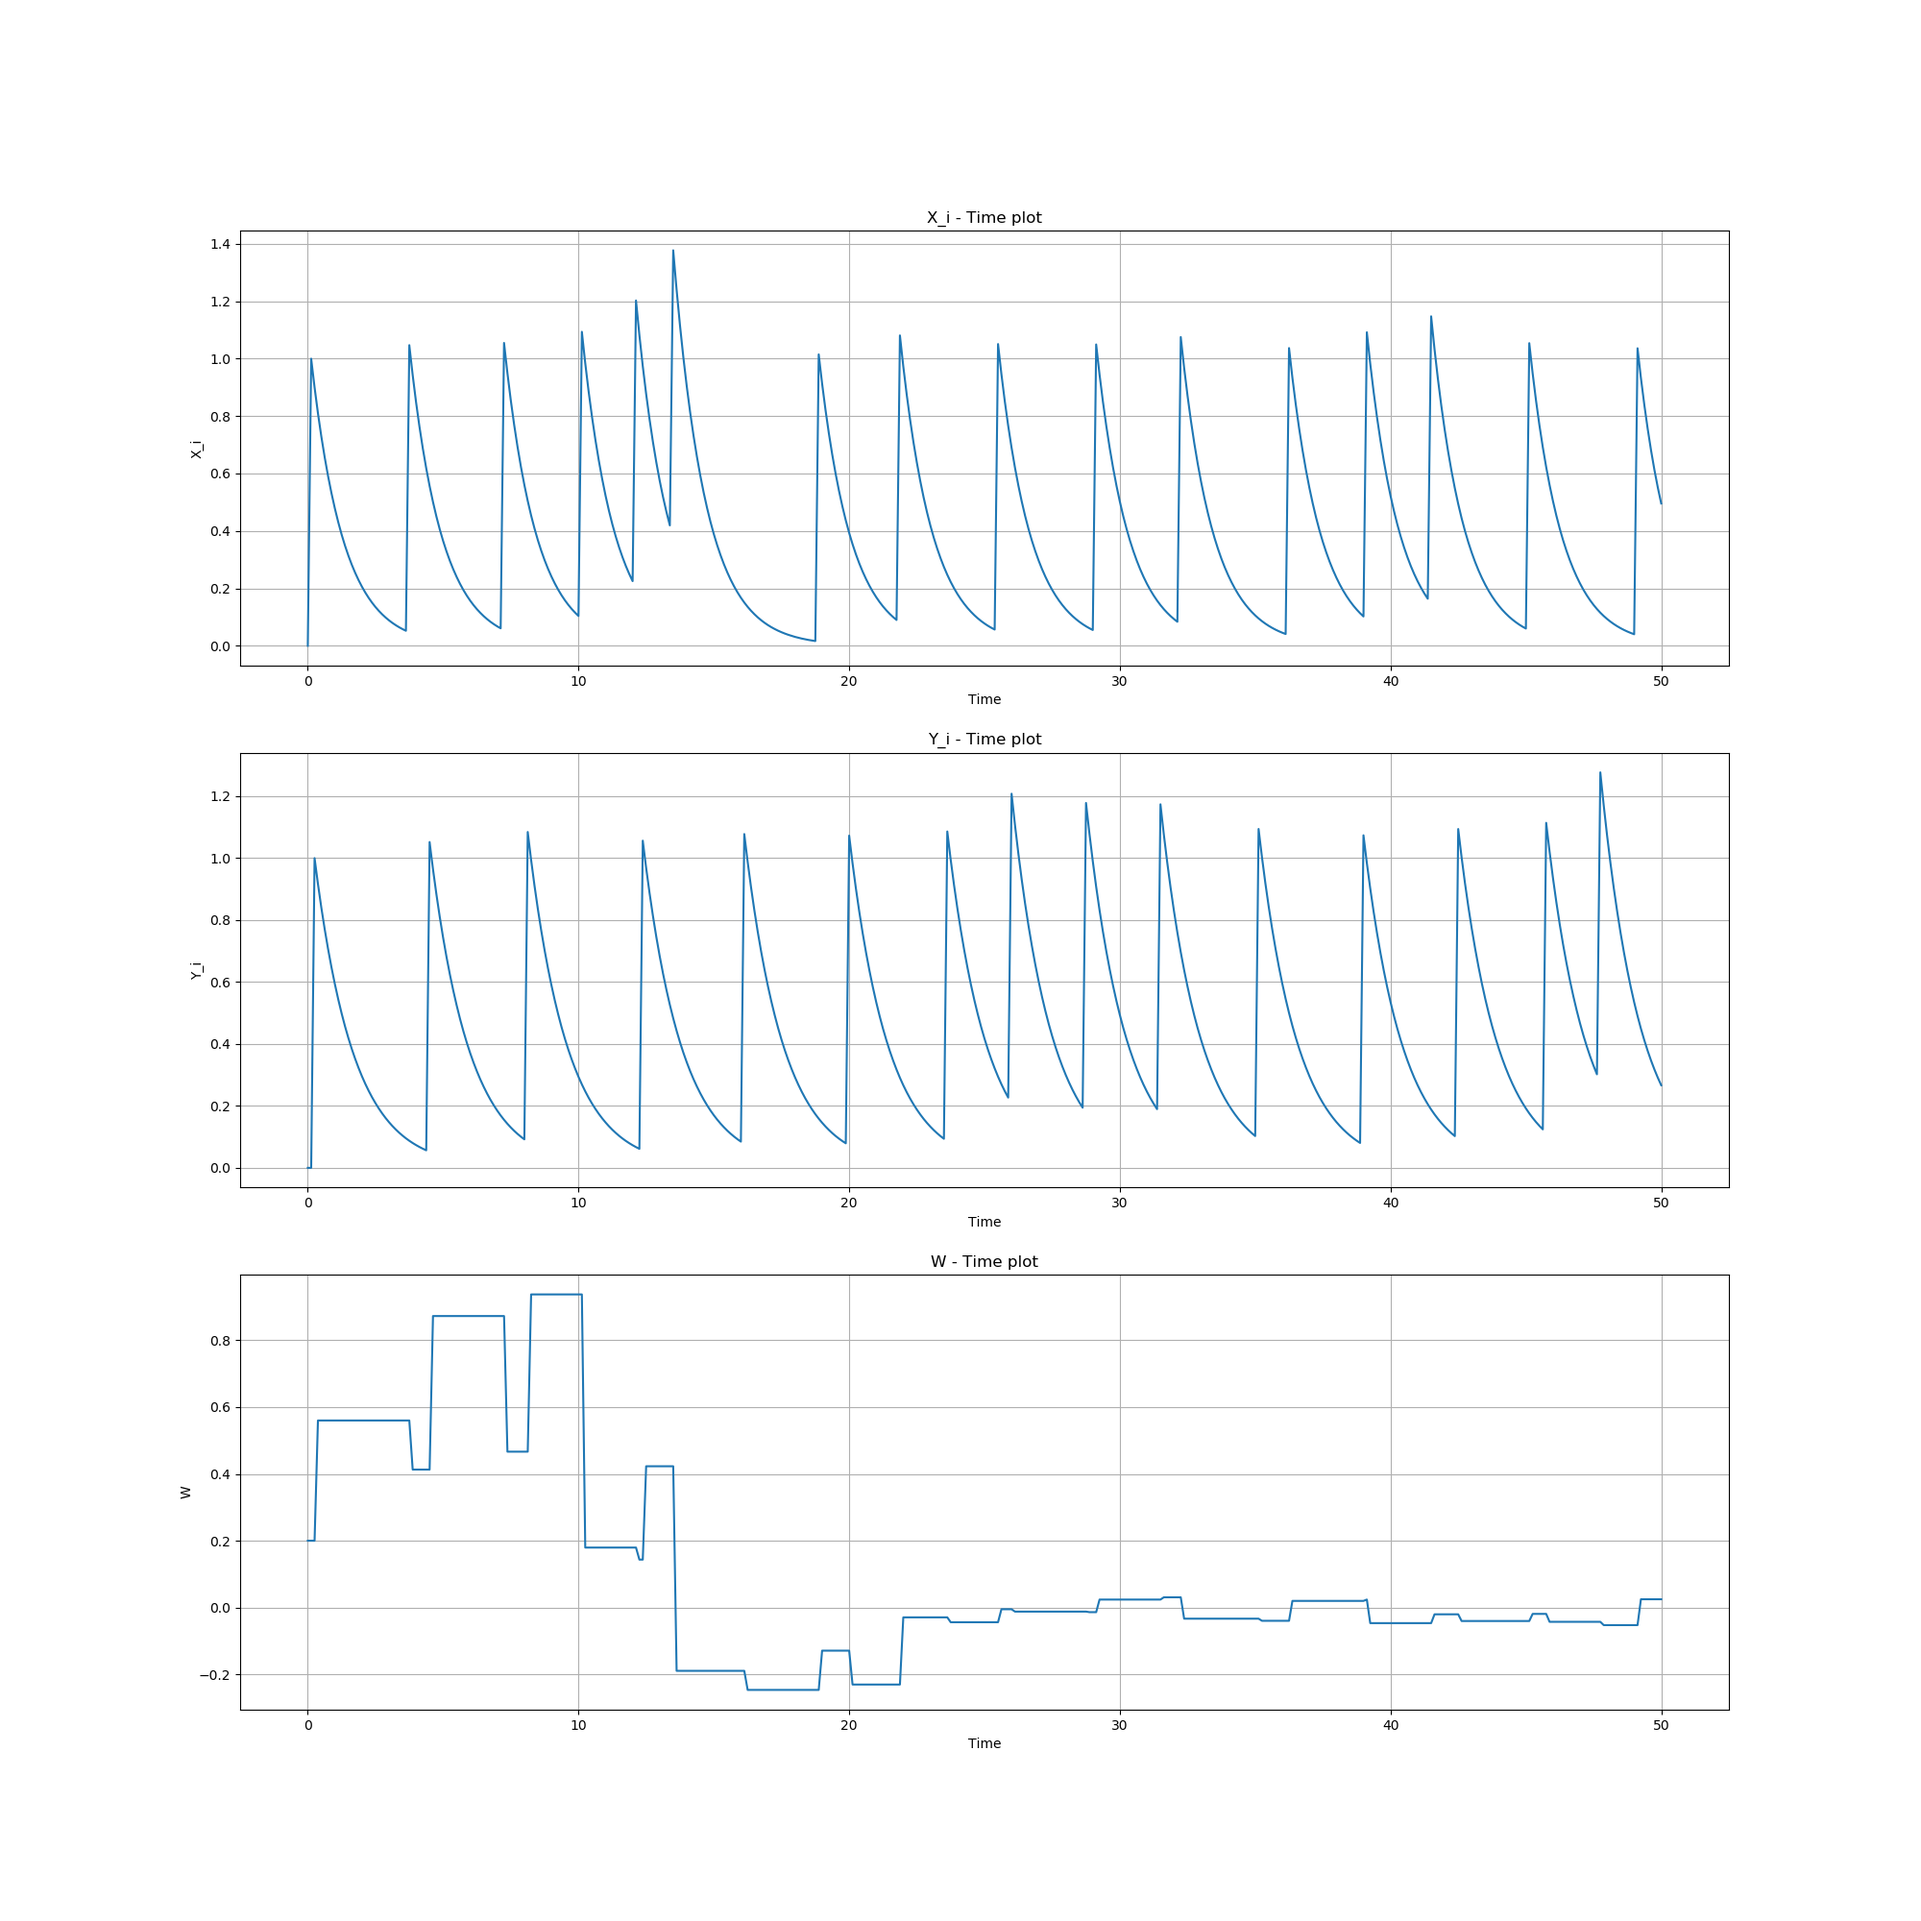
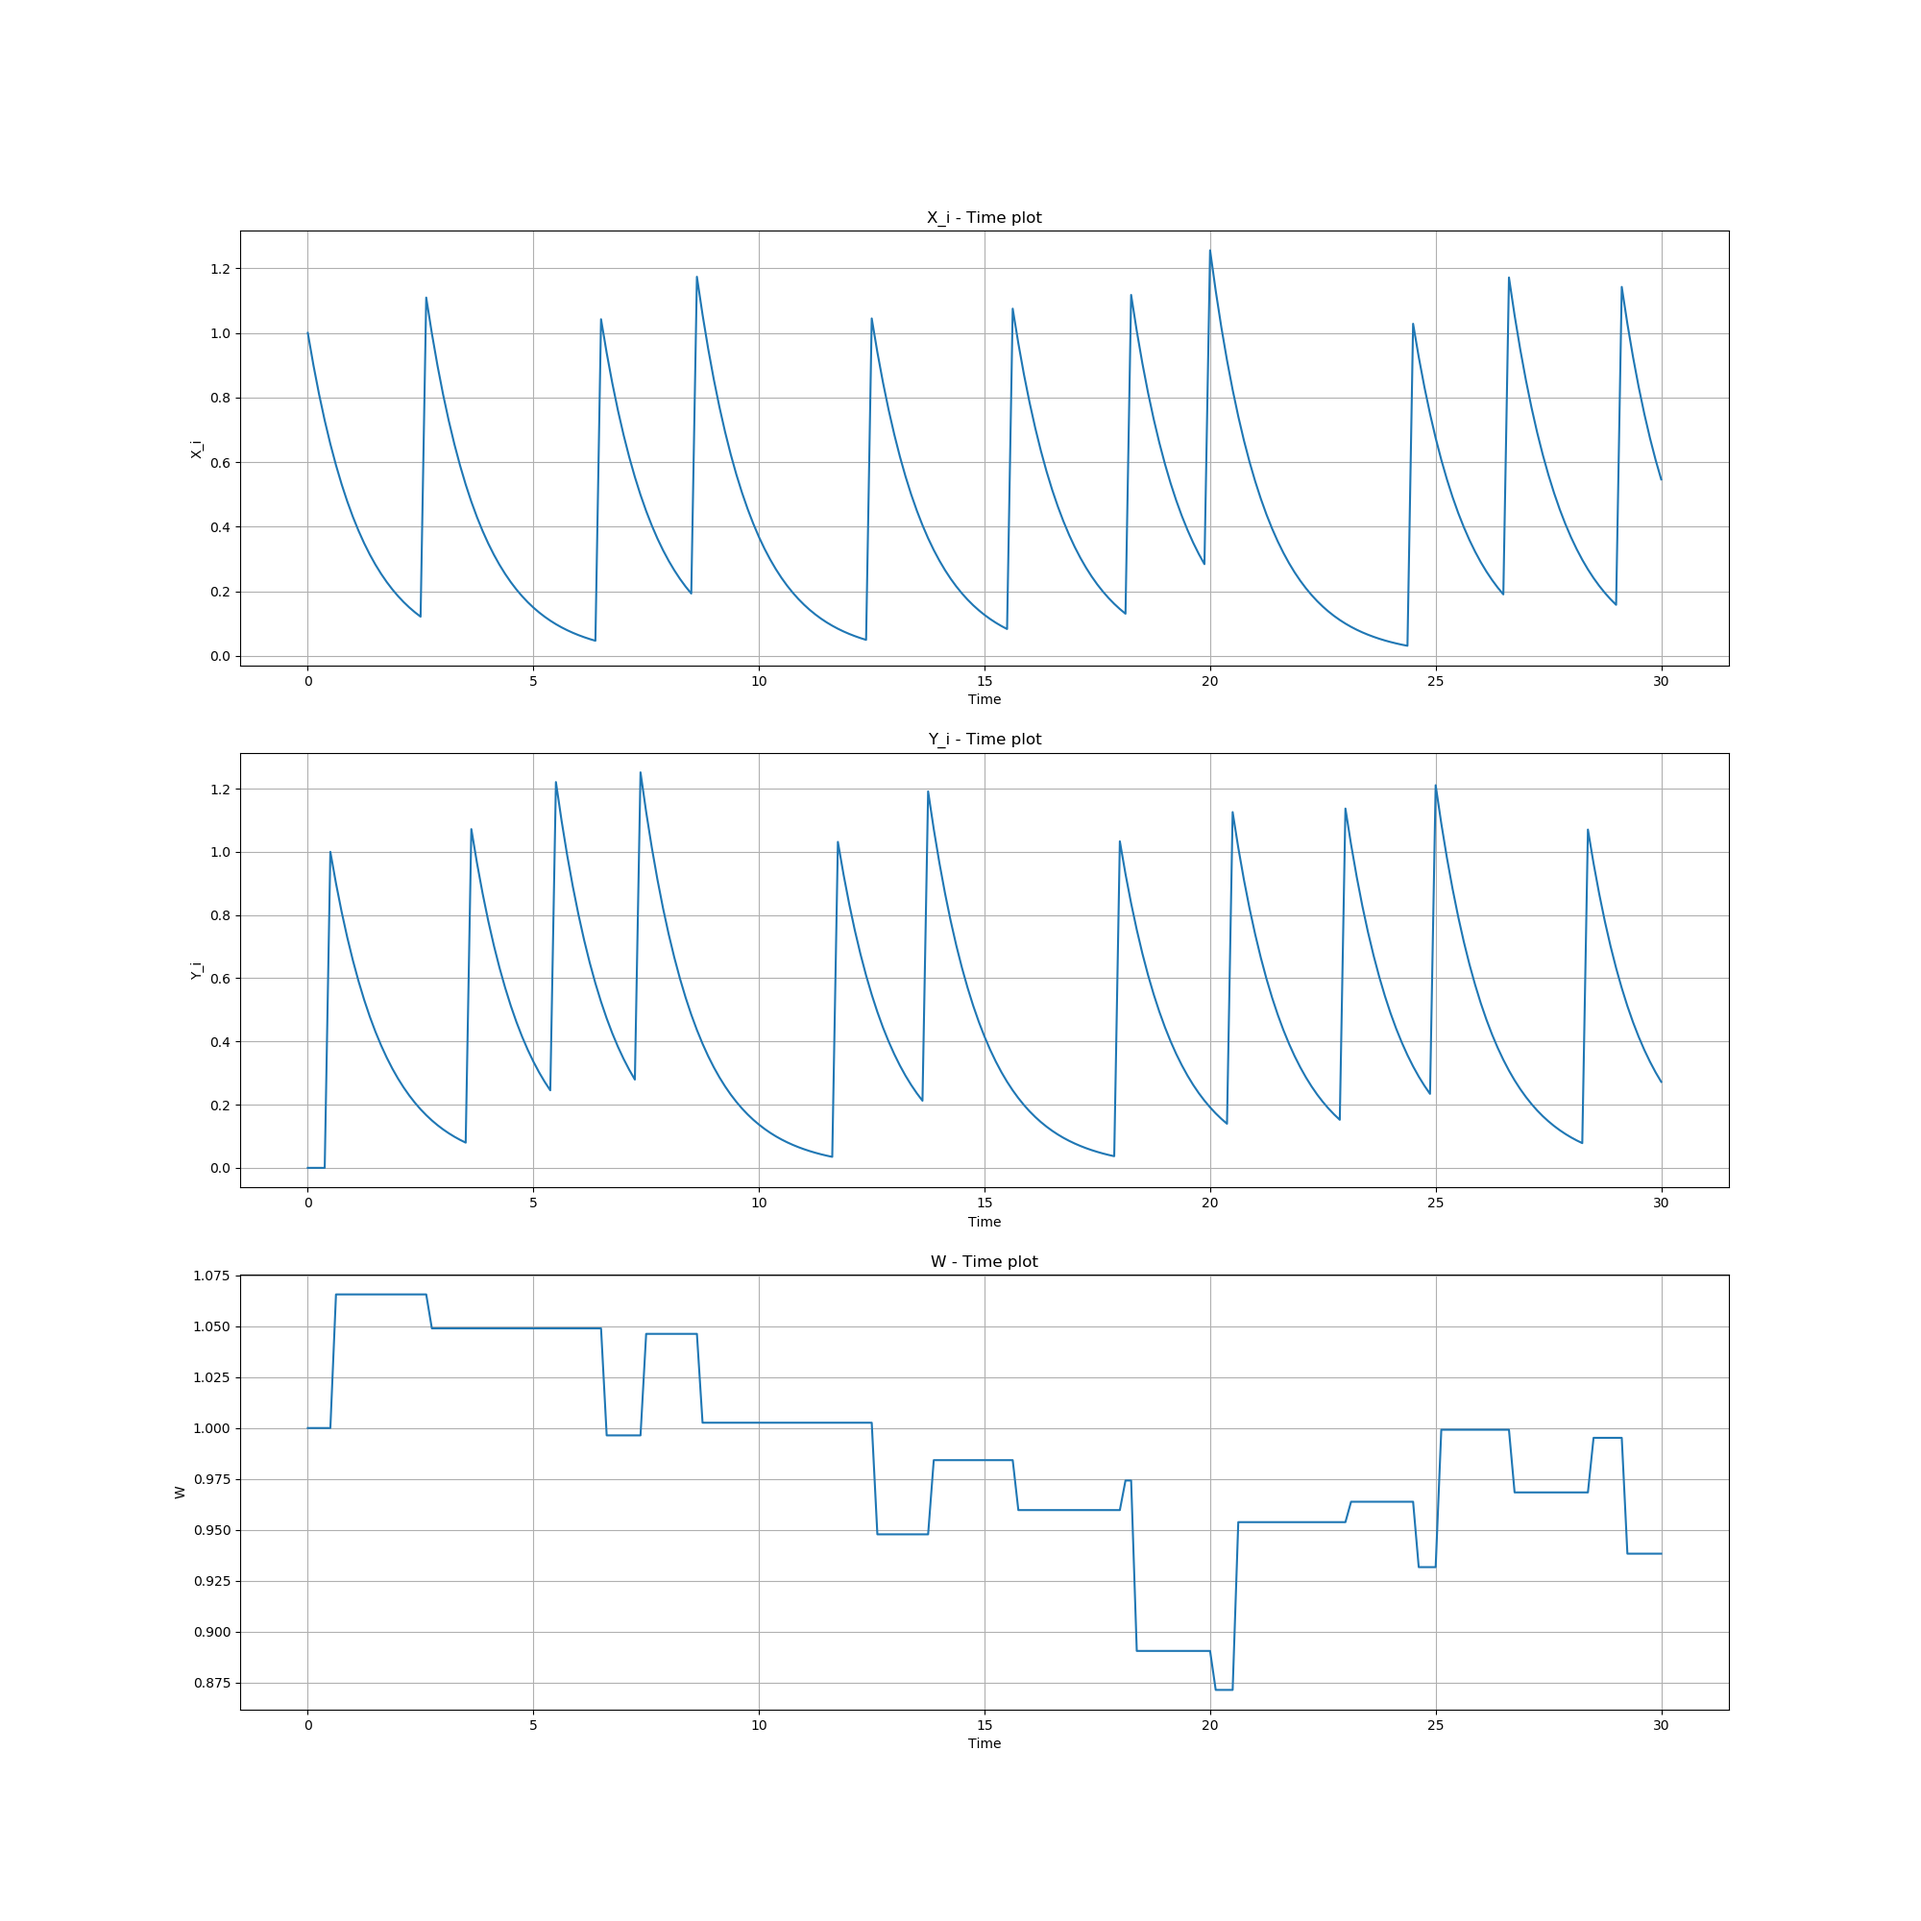
snn and stdp fix

diff --git a/project3/Spiking Neural Network.py b/project3/Spiking Neural Network.py
@@ -1,21 +1,49 @@
 from project3.Neuron import Neuron
 from project3.Neuron import Random_input
+import matplotlib.patches as mpatches
 from matplotlib.pyplot import *
 import random
 import math
 
+random.seed(1)
 
-def get_input_spikes(i):
-    if i % 10 == 0:
+
+def A_plus(w):
+    if w > 1:
+        return 0
+    return 1
+
+
+def A_minus(w):
+    if w == 0:
+        return 0
+    return 1
+
+
+def get_input_spikes(i, freq_pattern1=10, freq_pattern2=5):
+    if i % freq_pattern1 == 0:
         state = 4
-    elif i % 10 == 1:
+    elif i % freq_pattern1 == 1:
         state = 3
-    elif i % 5 == 0:
+    elif i % freq_pattern2 == 0:
         state = 2
-    elif i % 5 == 1:
+    elif i % freq_pattern2 == 1:
         state = 1
     else:
         state = 0
+
+    if i in [2300, 2302, 2304]:
+        state = 4
+    elif i in [2301, 2303, 2305]:
+        state = 3
+    elif i in [2400, 2402, 2404]:
+        state = 2
+    elif i in [2401, 2403, 2405]:
+        state = 1
+    elif i in [2500, 2501, 2502 , 2503,2504]:
+        state = 0
+    elif i > 2000:
+        return [0] * n
 
     if state == 4:
         # pattern 2
@@ -42,7 +70,7 @@ def spike_response_function(s, time_constant_controlling=2):
     if s <= 0:
         h = 0
     result = (s / time_constant_controlling) * math.exp(1 - s / time_constant_controlling) * h
-    if result <0.01:
+    if result < 0.01:
         return 0
     return (s / time_constant_controlling) * math.exp(1 - s / time_constant_controlling) * h
 
@@ -57,10 +85,12 @@ d1 = []
 w2 = []
 d2 = []
 for i in range(n):
-    w1.append(random.random()*10)
-    d1.append(random.random()*10)
-    w2.append(random.random()*10)
-    d2.append(random.random()*10)
+    # w1.append(random.random())
+    w1.append(1)
+    d1.append(random.random())
+    # w2.append(random.random())
+    w2.append(1)
+    d2.append(random.random())
 
 update_queue = []
 for i in range(n):
@@ -79,16 +109,45 @@ for i in range(n):
     y1.append([0] * simulation_length)
     y2.append([0] * simulation_length)
 
-tau_plus = 5
-tau_minus = 5
+# gmax = 1
 
-a_plus = 0.2
-a_minus = 0.4
+tau_plus = 2
+tau_minus = 2
+
+# a_minus = 0.1
+# a_plus = -a_minus * tau_minus / tau_plus * 1.05
+a_minus = 0.01
+a_plus = 0.01
+
+# a_minus *= gmax
+# a_plus *= gmax
 
 delta_w1 = [0] * simulation_length
 delta_w2 = [0] * simulation_length
 
+plot(w1 , color = 'g')
+plot(w2, color = 'r')
+ylabel('Weight')
+xlabel('Input Connection Index')
+title('Input Weights of Two Outputs Neurons - step:0')
+green_patch = mpatches.Patch(color='green', label='Input Weights of Neuron 1')
+red_patch = mpatches.Patch(color='red', label='Input Weights of Neuron 2')
+legend(handles=[green_patch, red_patch])
+savefig('../figures/project3/Input Weights Animation (fixed init)-step0.png')
+show()
+
 for current_time in range(simulation_length):
+    if current_time % 200 == 0 and current_time<=2000:
+        plot(w1 , color = 'g')
+        plot(w2, color = 'r')
+        ylabel('Weight')
+        xlabel('Input Connection Index')
+        title('Input Weights of Two Outputs Neurons - step:'+str(current_time//200+1))
+        green_patch = mpatches.Patch(color='green', label='Input Weights of Neuron 1')
+        red_patch = mpatches.Patch(color='red', label='Input Weights of Neuron 2')
+        legend(handles=[green_patch, red_patch])
+        savefig('../figures/project3/Input Weights Animation (fixed init)-step'+str(current_time//200+1)+'.png')
+        show()
     print(int(current_time / simulation_length * 10000) / 100, "%")
     fire_pattern = get_input_spikes(current_time)
     for i in range(n):
@@ -118,12 +177,11 @@ for current_time in range(simulation_length):
             y1[i][current_time] = 0
 
         ## W
-        delta_w = (-a_minus * w1[i] * y1[i][current_time - 1] * fire_pattern[i]) + (a_plus * w1[i] * x1[i][current_time - 1] * y_fire_pattern)
+        delta_w = (-a_minus * A_minus(w1[i - 1]) * y1[i][current_time - 1] * fire_pattern[i]) + (
+                    a_plus * A_plus(w1[i - 1]) * x1[i][current_time - 1] * y_fire_pattern)
         w1[i] = w1[i] + delta_w
-        if w1[i] <0 :
-            w1[i]=0.1
-        # if i ==0 :
-        #     print (w1)
+        if w1[i] < 0:
+            w1[i] = 0.01
 
     # output neuron 2
     input_temp = 0
@@ -145,30 +203,30 @@ for current_time in range(simulation_length):
             y2[i][current_time] = 0
 
         ## W
-        delta_w = (-a_minus * w2[i] * y2[i][current_time - 1] * fire_pattern[i]) + (a_plus * w2[i] * x2[i][current_time - 1] * y_fire_pattern)
+        delta_w = (-a_minus * A_minus(w2[i - 1]) * y2[i][current_time - 1] * fire_pattern[i]) + (
+                    a_plus * A_plus(w2[i - 1]) * x2[i][current_time - 1] * y_fire_pattern)
         w2[i] = w2[i] + delta_w
-        if w2[i] <0 :
-            w2[i]=0.1
+        if w2[i] < 0:
+            w2[i] = 0.01
 
 fig = figure(num=None, figsize=(20, 10))
 subplot(211)
 plot(output1.timer, output1.u)
 ylabel('U')
 xlabel('Time')
-title('output1')
+title('Output Neuron 1')
 grid(True)
 
 subplot(212)
 plot(output2.timer, output2.u)
 ylabel('U')
 xlabel('Time')
-title('output2')
+title('Output Neuron 2')
 grid(True)
+savefig('../figures/project3/Output Neurons (fixed init).png')
 show()
 
 print("==")
-print (w1)
-print (w2)
-plot(w1)
-plot(w2)
-show()
+print(w1)
+print(w2)
+

diff --git a/project3/Spike-Timing Dependent Plasticity(STDP).py b/project3/Spike-Timing Dependent Plasticity(STDP).py
@@ -3,7 +3,7 @@ from matplotlib.pyplot import *
 import random
 import math
 
-random.seed(1)
+random.seed(10)
 
 
 def get_fire_pattern(simulation_time=1000):
@@ -19,7 +19,26 @@ def get_fire_pattern(simulation_time=1000):
     return fire_pattern
 
 
-time = 50
+def zigma_delta(fire_pattern, time):
+    result = 0
+    for i in range(10):
+        result += 2 ** -i * fire_pattern[time - i]
+    return result
+
+
+def A_plus(w):
+    if w > 1:
+        return 0
+    return 1
+
+
+def A_minus(w):
+    if w == 0:
+        return 0
+    return 1
+
+
+time = 30
 steps = 0.125
 
 timer = np.arange(0, time + steps, steps)
@@ -27,15 +46,19 @@ x = [0] * len(timer)
 x_fire_pattern = get_fire_pattern(len(timer))
 y = [0] * len(timer)
 y_fire_pattern = get_fire_pattern(len(timer))
+
 tau_plus = 10
-tau_minus = 12
+tau_minus = 10
 
-a_plus = 2
-a_minus = 3
+# a_minus = 0.1
+# a_plus = -a_minus*tau_minus / tau_plus * 1.05
+a_minus = 0.1
+a_plus = 0.1
 
-w = [0.2] * len(timer)
+w = [0] * len(timer)
 delta_w = [0] * len(timer)
 
+w[-1] = 1
 for i in range(len(timer)):
     # # X
     x[i] = x[i - 1] + ((-x[i - 1]) / tau_plus + x_fire_pattern[i])
@@ -48,7 +71,7 @@ for i in range(len(timer)):
         y[i] = 0
 
     # # W
-    delta_w[i] = (-a_minus * w[i - 1] * y[i - 1] * x_fire_pattern[i - 1]) + (a_plus * w[i - 1] * x[i - 1] * y_fire_pattern[i - 1])
+    delta_w[i] = (-a_minus * A_minus(w[i - 1]) * y[i - 1] * x_fire_pattern[i - 1]) + (a_plus * A_plus(w[i - 1]) * x[i - 1] * y_fire_pattern[i - 1])
     w[i] = w[i - 1] + delta_w[i]
 
 # # ploting
@@ -78,17 +101,21 @@ x_axis = []
 y_axis = []
 for i in range(len(timer)):
     if delta_w[i] != 0:
-        x_axis.append(timer[i])
-        y_axis.append(delta_w[i])
+        x_axis.append(timer[i-2])
+        y_axis.append(delta_w[i]/w[i] )
 fig = figure(num=None, figsize=(20, 20))
 scatter(x_axis, y_axis, s=20)
+plot(x_axis, y_axis)
 for i in range(len(timer)):
     if y_fire_pattern[i] == 1:
-        axvline(timer[i], color='r', alpha=0.3)
+        axvline(timer[i], color='r', alpha=0.7)
+# for i in range(len(timer)):
+#     if x_fire_pattern[i] == 1:
+#         axvline(timer[i], color='g', alpha=0.7)
 axhline(0, color='r')
 ylabel('delta_w')
 xlabel('Time')
 title('delta_w - Time plot')
-grid(True)
+# grid(True)
 savefig('../figures/project3/STDP delta W.png')
 show()

diff --git a/project3/Neuron.py b/project3/Neuron.py
@@ -7,12 +7,12 @@ class Neuron:
         self.group = group
         self.index = index
         self.type = type
-        self.time = 500
+        self.time = 700
         self.steps = 0.25
         self.u_rest = 0
         self.r = 10
         self.c = 5
-        self.threshold = 3 + random.random() * 2
+        self.threshold = 1+ random.random() * 2
 
         self.timer = np.arange(0, self.time + self.steps, self.steps)
         self.tm = self.r * self.c
